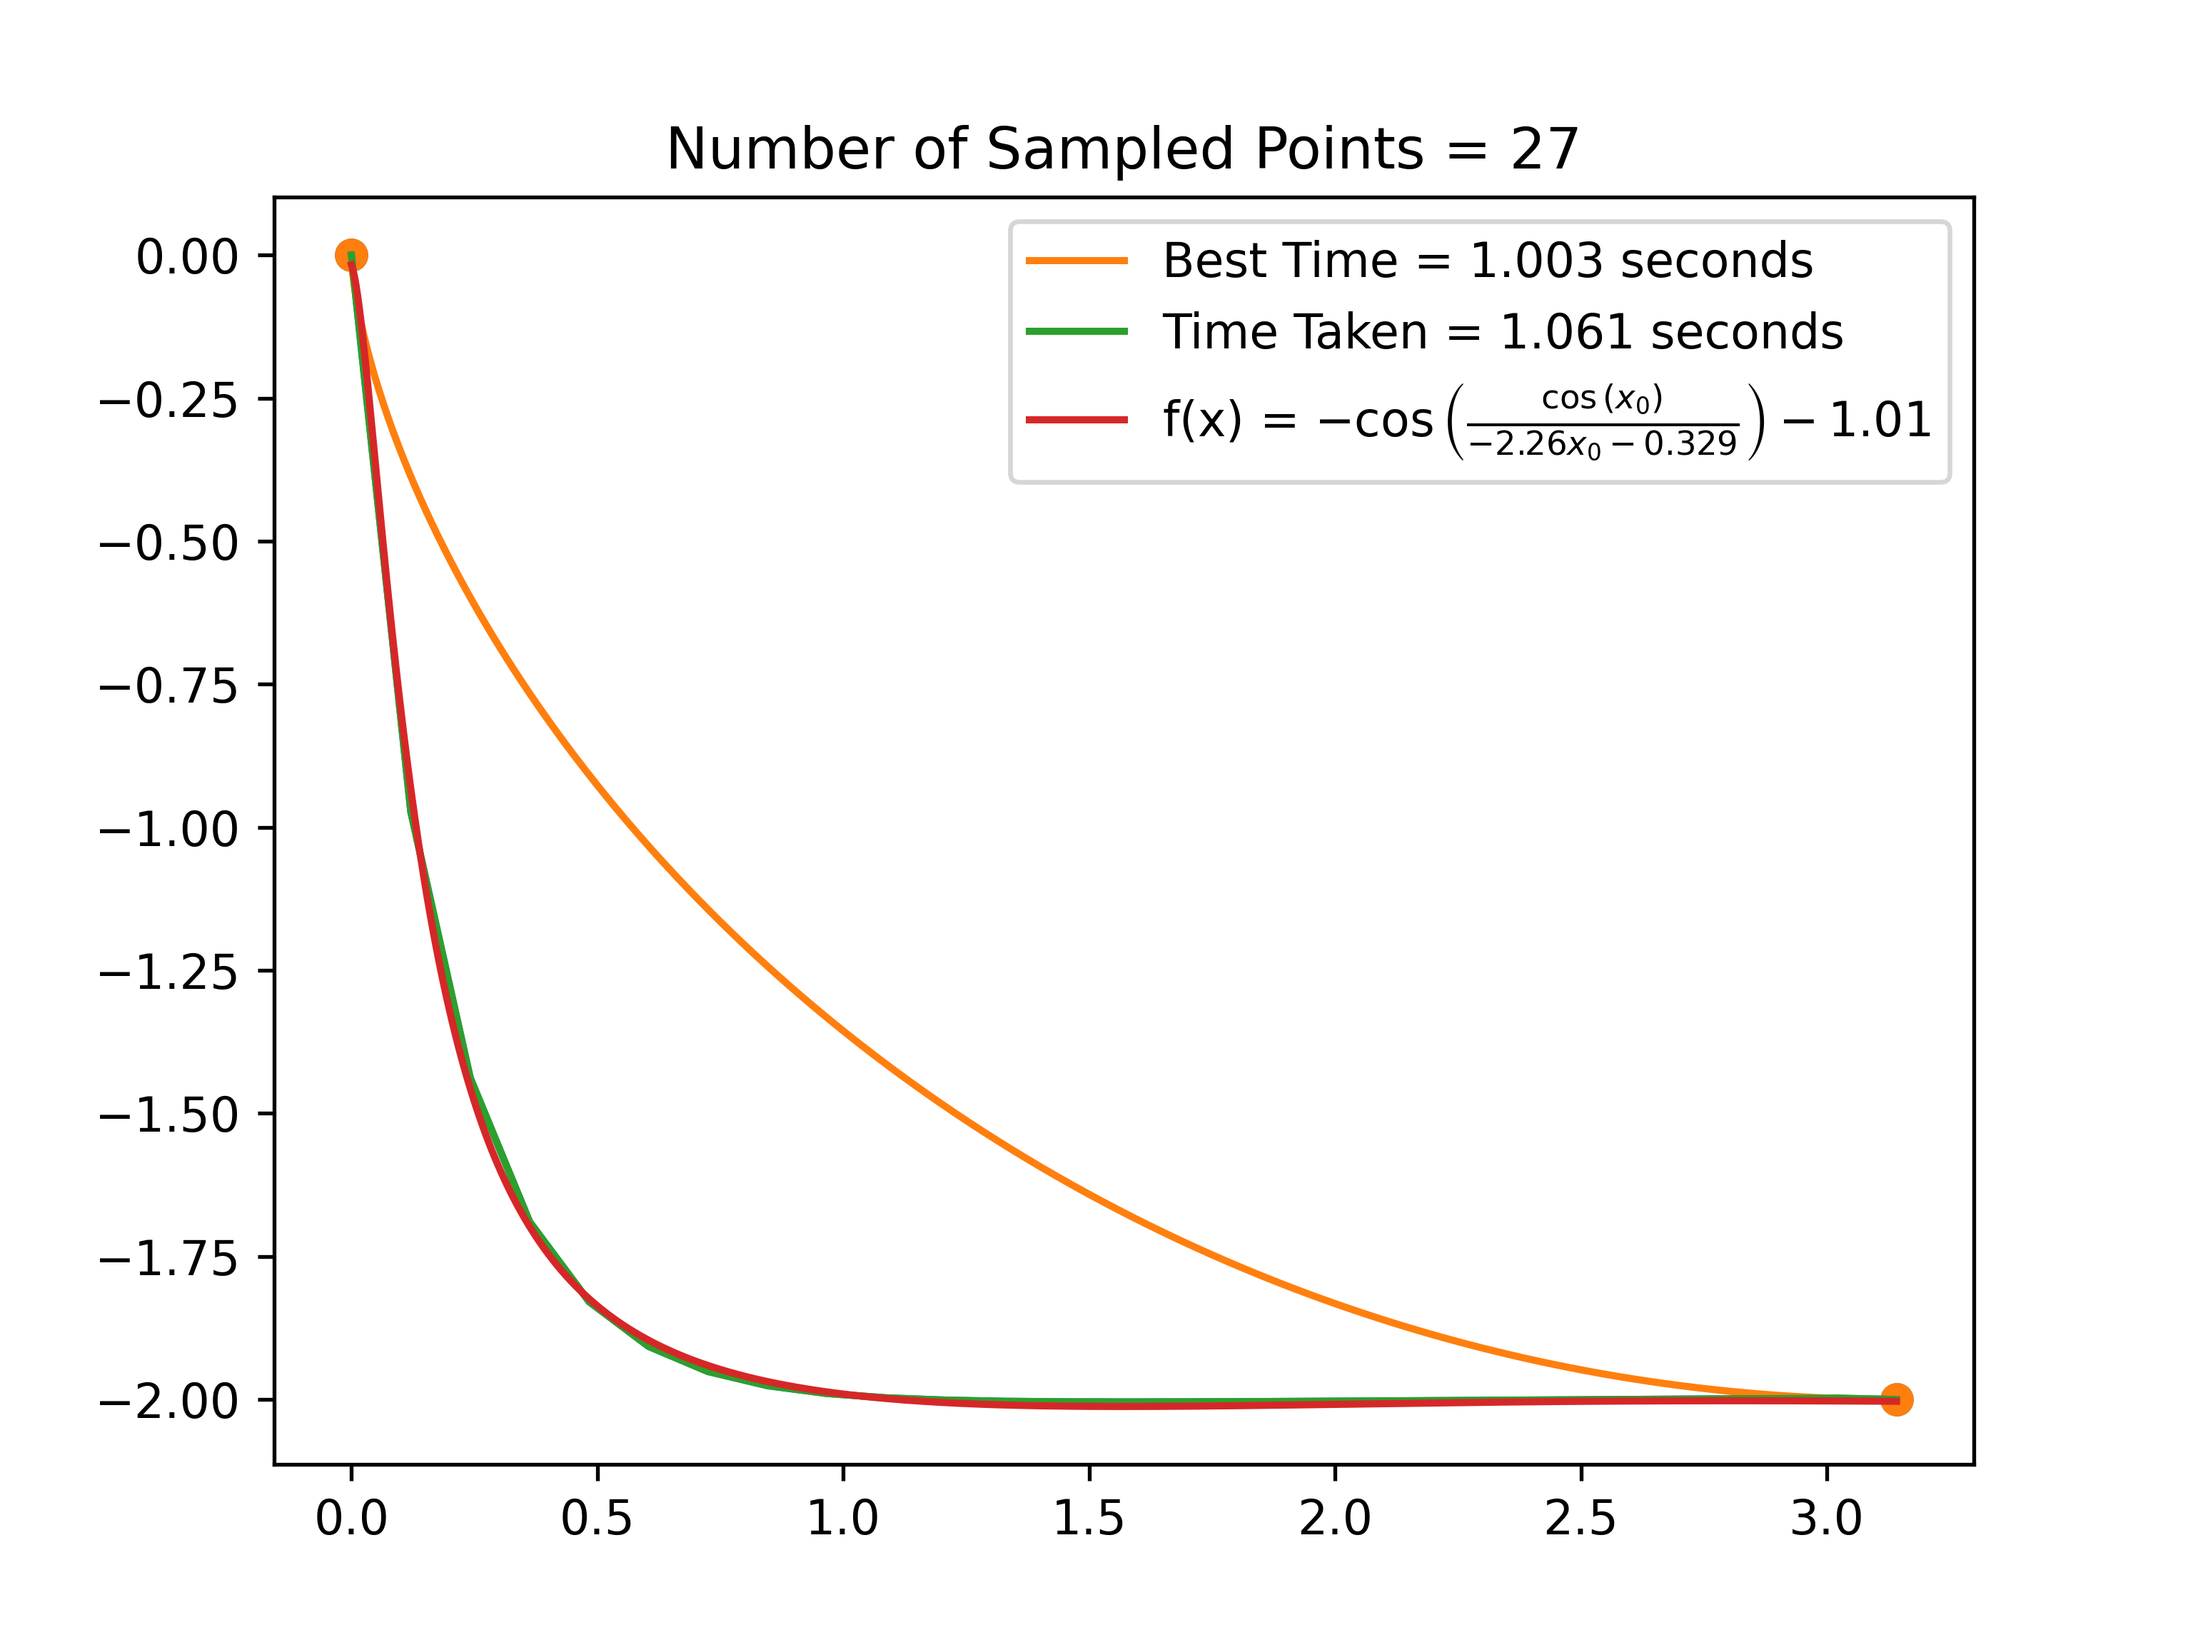
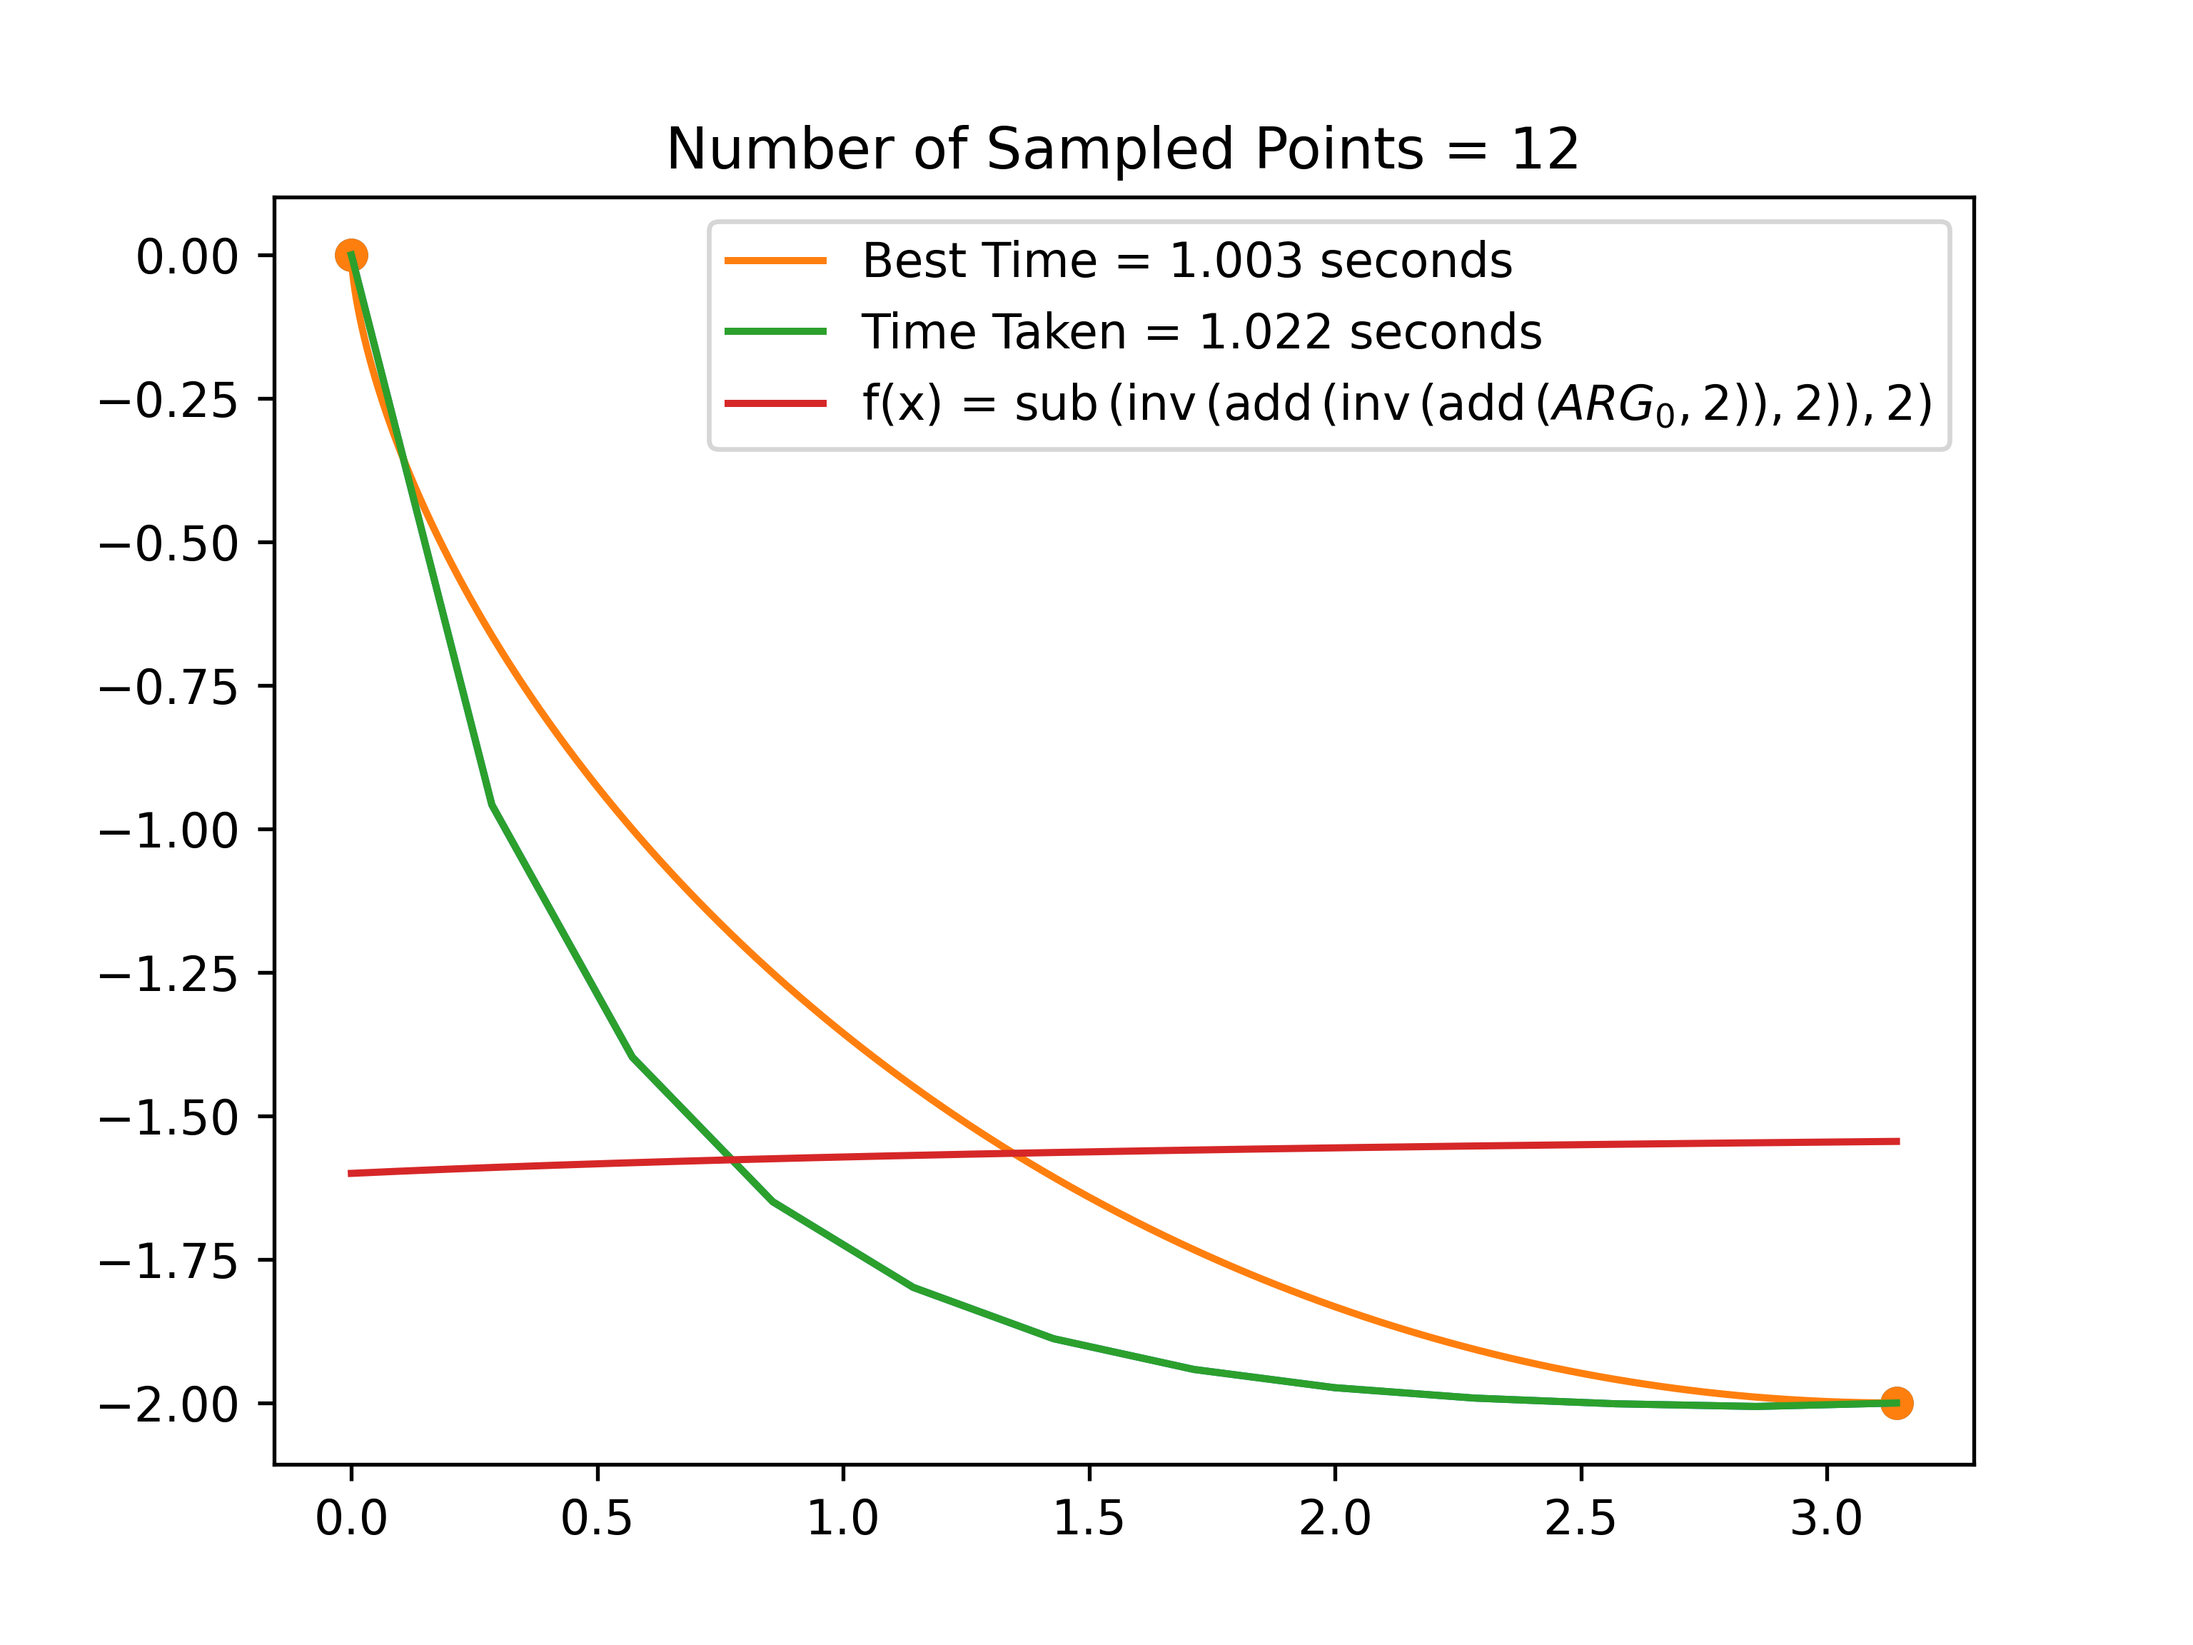
Trying to figure out deap

diff --git a/RL_Brachistochrone_deap.py b/RL_Brachistochrone_deap.py
@@ -15,10 +15,11 @@ non-parametric form of the Brachistochrone
 # if hasattr(critic.output, '__len__') and len(critic.output) > 1: -> if
 # hasattr(critic.output, '__shape__') and len(critic.output) > 2:
 
-import warnings
 import sys
-from sympy.utilities.lambdify import lambdify
-from sympy import symbols
+sys.setrecursionlimit(10000)
+import warnings
+import sympy as sp
+from sympy import sin, cos
 from rl.memory import SequentialMemory
 from rl.policy import BoltzmannQPolicy
 from rl.agents import DDPGAgent
@@ -36,8 +37,10 @@ from scipy.optimize import ridder, fsolve
 from gym import Env
 from gym.spaces import Box
 import operator
+from operator import add, sub, mul
 from deap import base, creator, tools, gp, algorithms
 from math import isclose
+import random
 
 import tensorflow as tf
 tf.compat.v1.disable_eager_execution()
@@ -659,22 +662,29 @@ if __name__ == '__main__':
         pset.addPrimitive(operator.mul, 2)
         pset.addPrimitive(np.sin, 1)
         pset.addPrimitive(np.cos, 1)
-#        pset.addPrimitive(np.linalg.inv, 1)  # Define inv(x) = 1/x
-
+        def inv(x):
+            x = np.array(x)
+            return 1/x if np.all(x) else x
+        pset.addPrimitive(inv, 1)
+        
         # Define custom loss function
-        def custom_loss(x, y):
-            return np.sum((x - y) ** 2)
-
+        def custom_loss(y_pred, y):
+            if np.allclose(y_pred, y_pred[0]):
+                return np.inf
+            loss = np.sum((y_pred - y) ** 2)
+            return loss
+            
         # Define fitness function (minimize the loss)
         creator.create("FitnessMin", base.Fitness, weights=(-1.0,))
         creator.create("Individual", gp.PrimitiveTree, fitness=creator.FitnessMin)
-
+        
         def evaluate_individual(individual, X, y):
             func = gp.compile(individual, pset)
             y_pred = np.array([func(x) for x in X])
             loss = custom_loss(y_pred, y)
-            return loss.item(),
-
+            print(loss)
+            return loss,
+            
         toolbox = base.Toolbox()
         toolbox.register("expr", gp.genHalfAndHalf, pset=pset, min_=1, max_=3)
         toolbox.register("individual", tools.initIterate, creator.Individual, toolbox.expr)
@@ -683,11 +693,11 @@ if __name__ == '__main__':
         # Define other DEAP components and settings
         toolbox.register("mate", gp.cxOnePoint)
         toolbox.register("mutate", gp.mutUniform, expr=toolbox.expr, pset=pset)
-        toolbox.register("select", tools.selTournament, tournsize=3)
+        toolbox.register("select", tools.selDoubleTournament, fitness_size=3, parsimony_size=1.9, fitness_first=True)
         toolbox.register("evaluate", evaluate_individual, X=X, y=y)
         
         pop = toolbox.population(n=100)
-        algorithms.eaSimple(pop, toolbox, cxpb=0.7, mutpb=0.2, ngen=50, stats=None, verbose=True)
+        algorithms.eaSimple(pop, toolbox, cxpb=0.5, mutpb=0.2, ngen=5000, stats=None)
 
         best_individual = tools.selBest(pop, k=1)[0]
         best_func = gp.compile(best_individual, pset)
@@ -695,4 +705,17 @@ if __name__ == '__main__':
         best_loss = custom_loss(y_pred, y)
 
         print("Best individual:", best_individual)
+        print("Best func", best_func, type(best_func))
         print("Best loss:", best_loss)
+
+        x_points = np.linspace(x_start, x_end, 1000)
+        
+        ARG0 = sp.symbols('ARG0')
+        expr = sp.sympify(str(best_individual))
+        expr = sp.latex(expr)
+        
+        plt.plot(x_points, best_func(x_points),
+                 label=rf"f(x) = ${expr}$")
+        plt.legend()
+        # Save the figure and show your friends! :)
+        plt.savefig("RL_Brachistochrone.png", dpi=5 * 96)

diff --git a/RL_Brachistochrone.py b/RL_Brachistochrone.py
@@ -658,12 +658,12 @@ if __name__ == '__main__':
             unary_operators=[
                 "cos",
                 #        "exp",
-                #        "sin",
+                "sin",
                 "inv(x) = 1/x",
                 # ^ Custom operator (julia syntax)
             ],
             extra_sympy_mappings={"inv": lambda x: 1 / x},
-            nested_constraints = {"sin": {"cos": 0, "sin": 0}, "cos": {"cos": 0, "sin": 0}}
+            nested_constraints = {"sin": {"cos": 0, "sin": 0}, "cos": {"cos": 0, "sin": 0}},
             # ^ Define operator for SymPy as well
             loss="loss(x, y) = (x - y)^2",
             # ^ Custom loss function (julia syntax)
